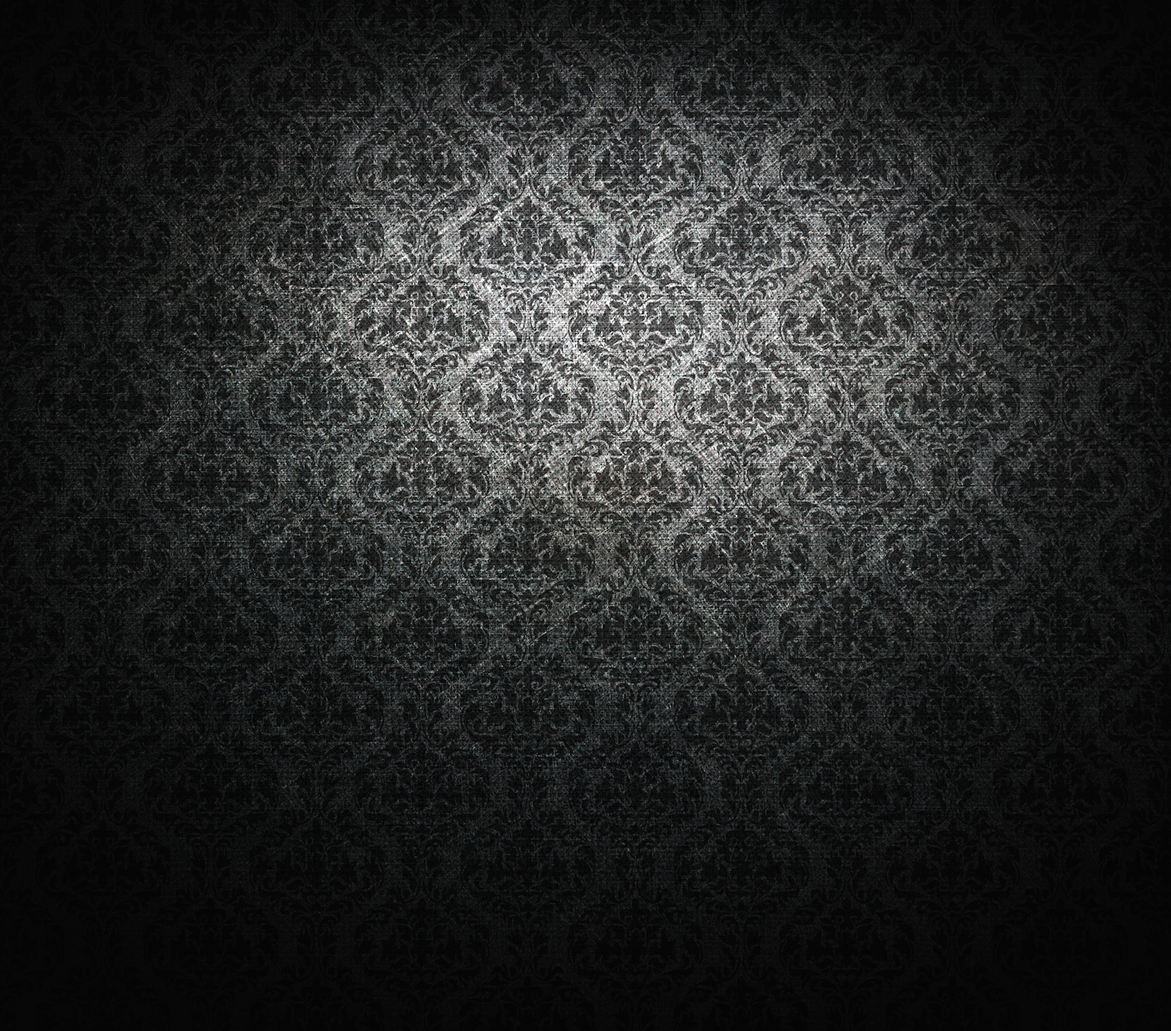
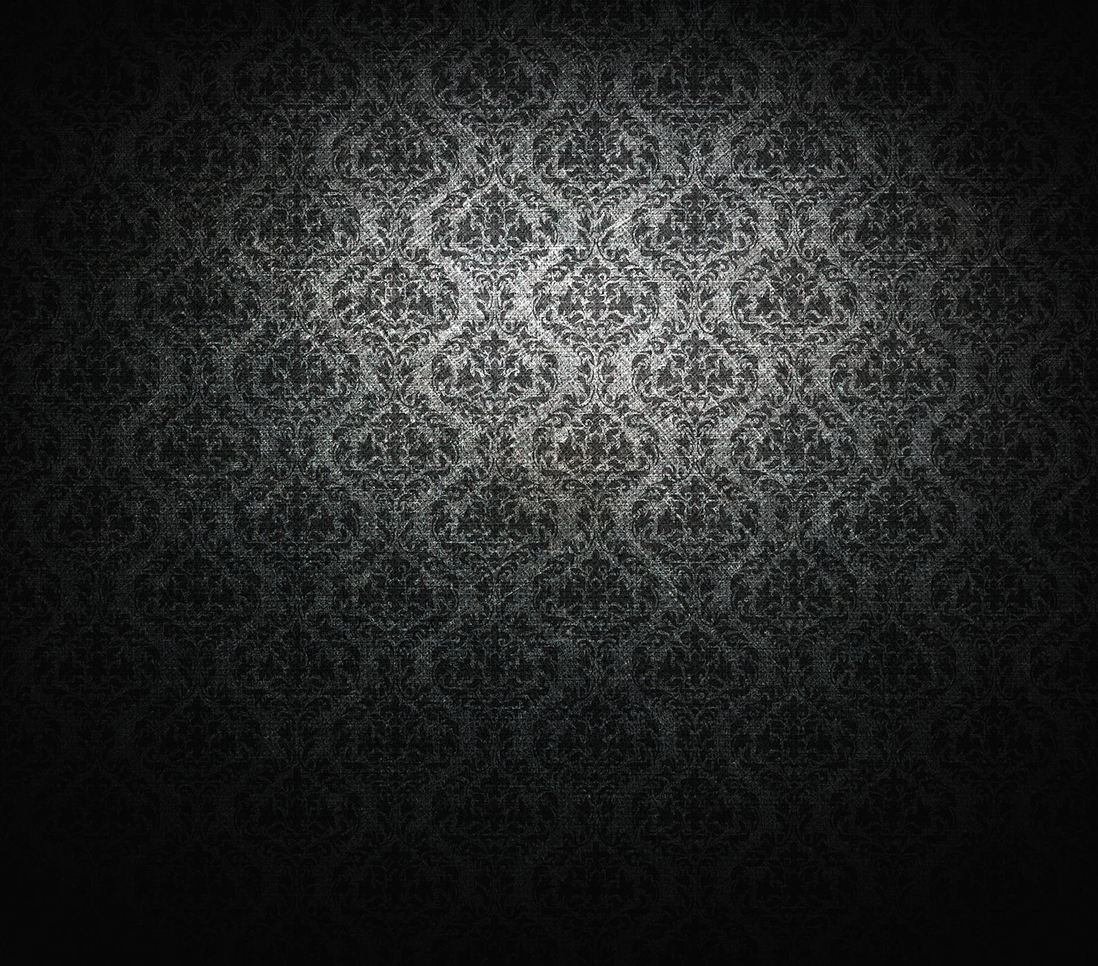
smaller images smarter css

Changed region(s): [[0.2489, 0.1237, 0.7778, 0.5259], [0.7778, 0.3093, 0.8089, 0.3403]]

diff --git a/style.css b/style.css
@@ -9,10 +9,11 @@
 }
 html{
   background-color:black;
-  background-image:url(bg.jpg);
-  background-size: 100% auto;
+  background: url(bg.jpg) no-repeat center center fixed; 
+  -webkit-background-size: cover;
+  -moz-background-size: cover;
+  -o-background-size: cover;
   background-size: cover;
-  background-repeat:no-repeat;
 }
 body{
   margin-top:40px;
